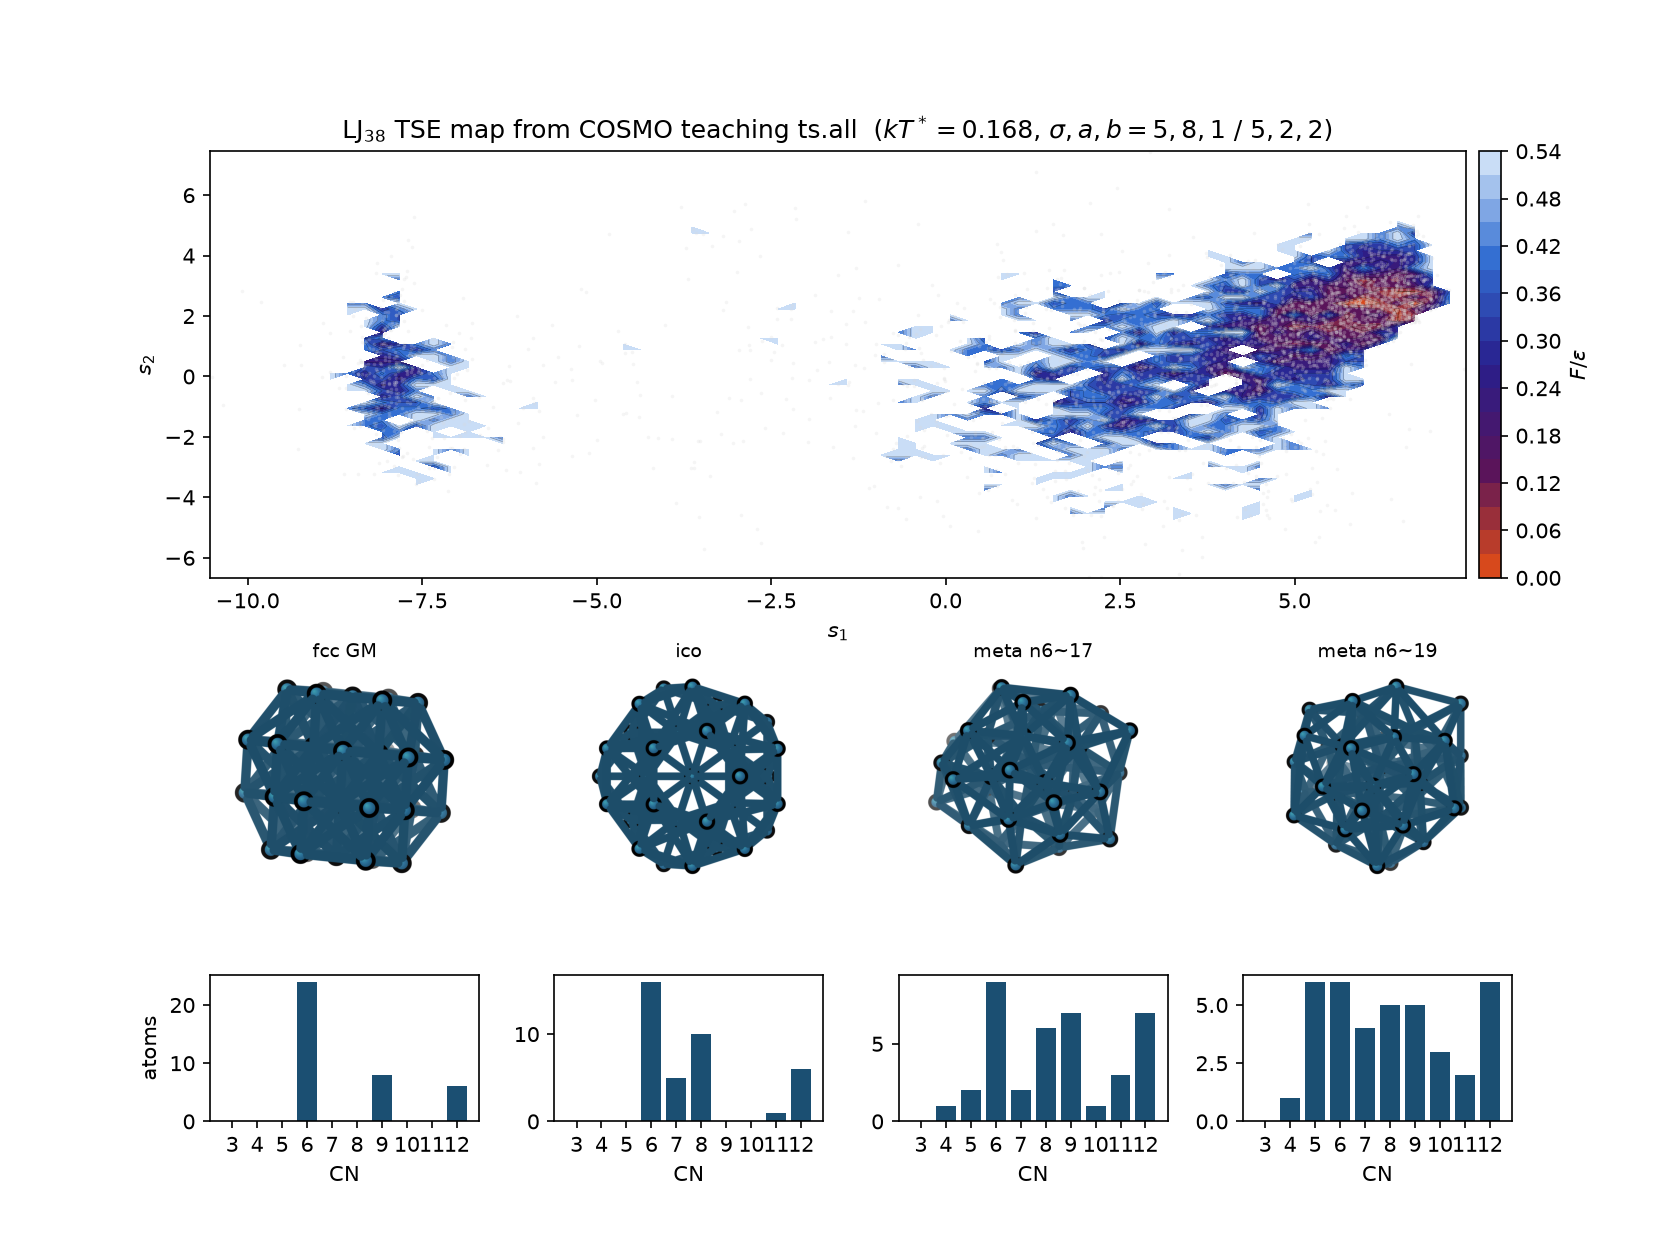
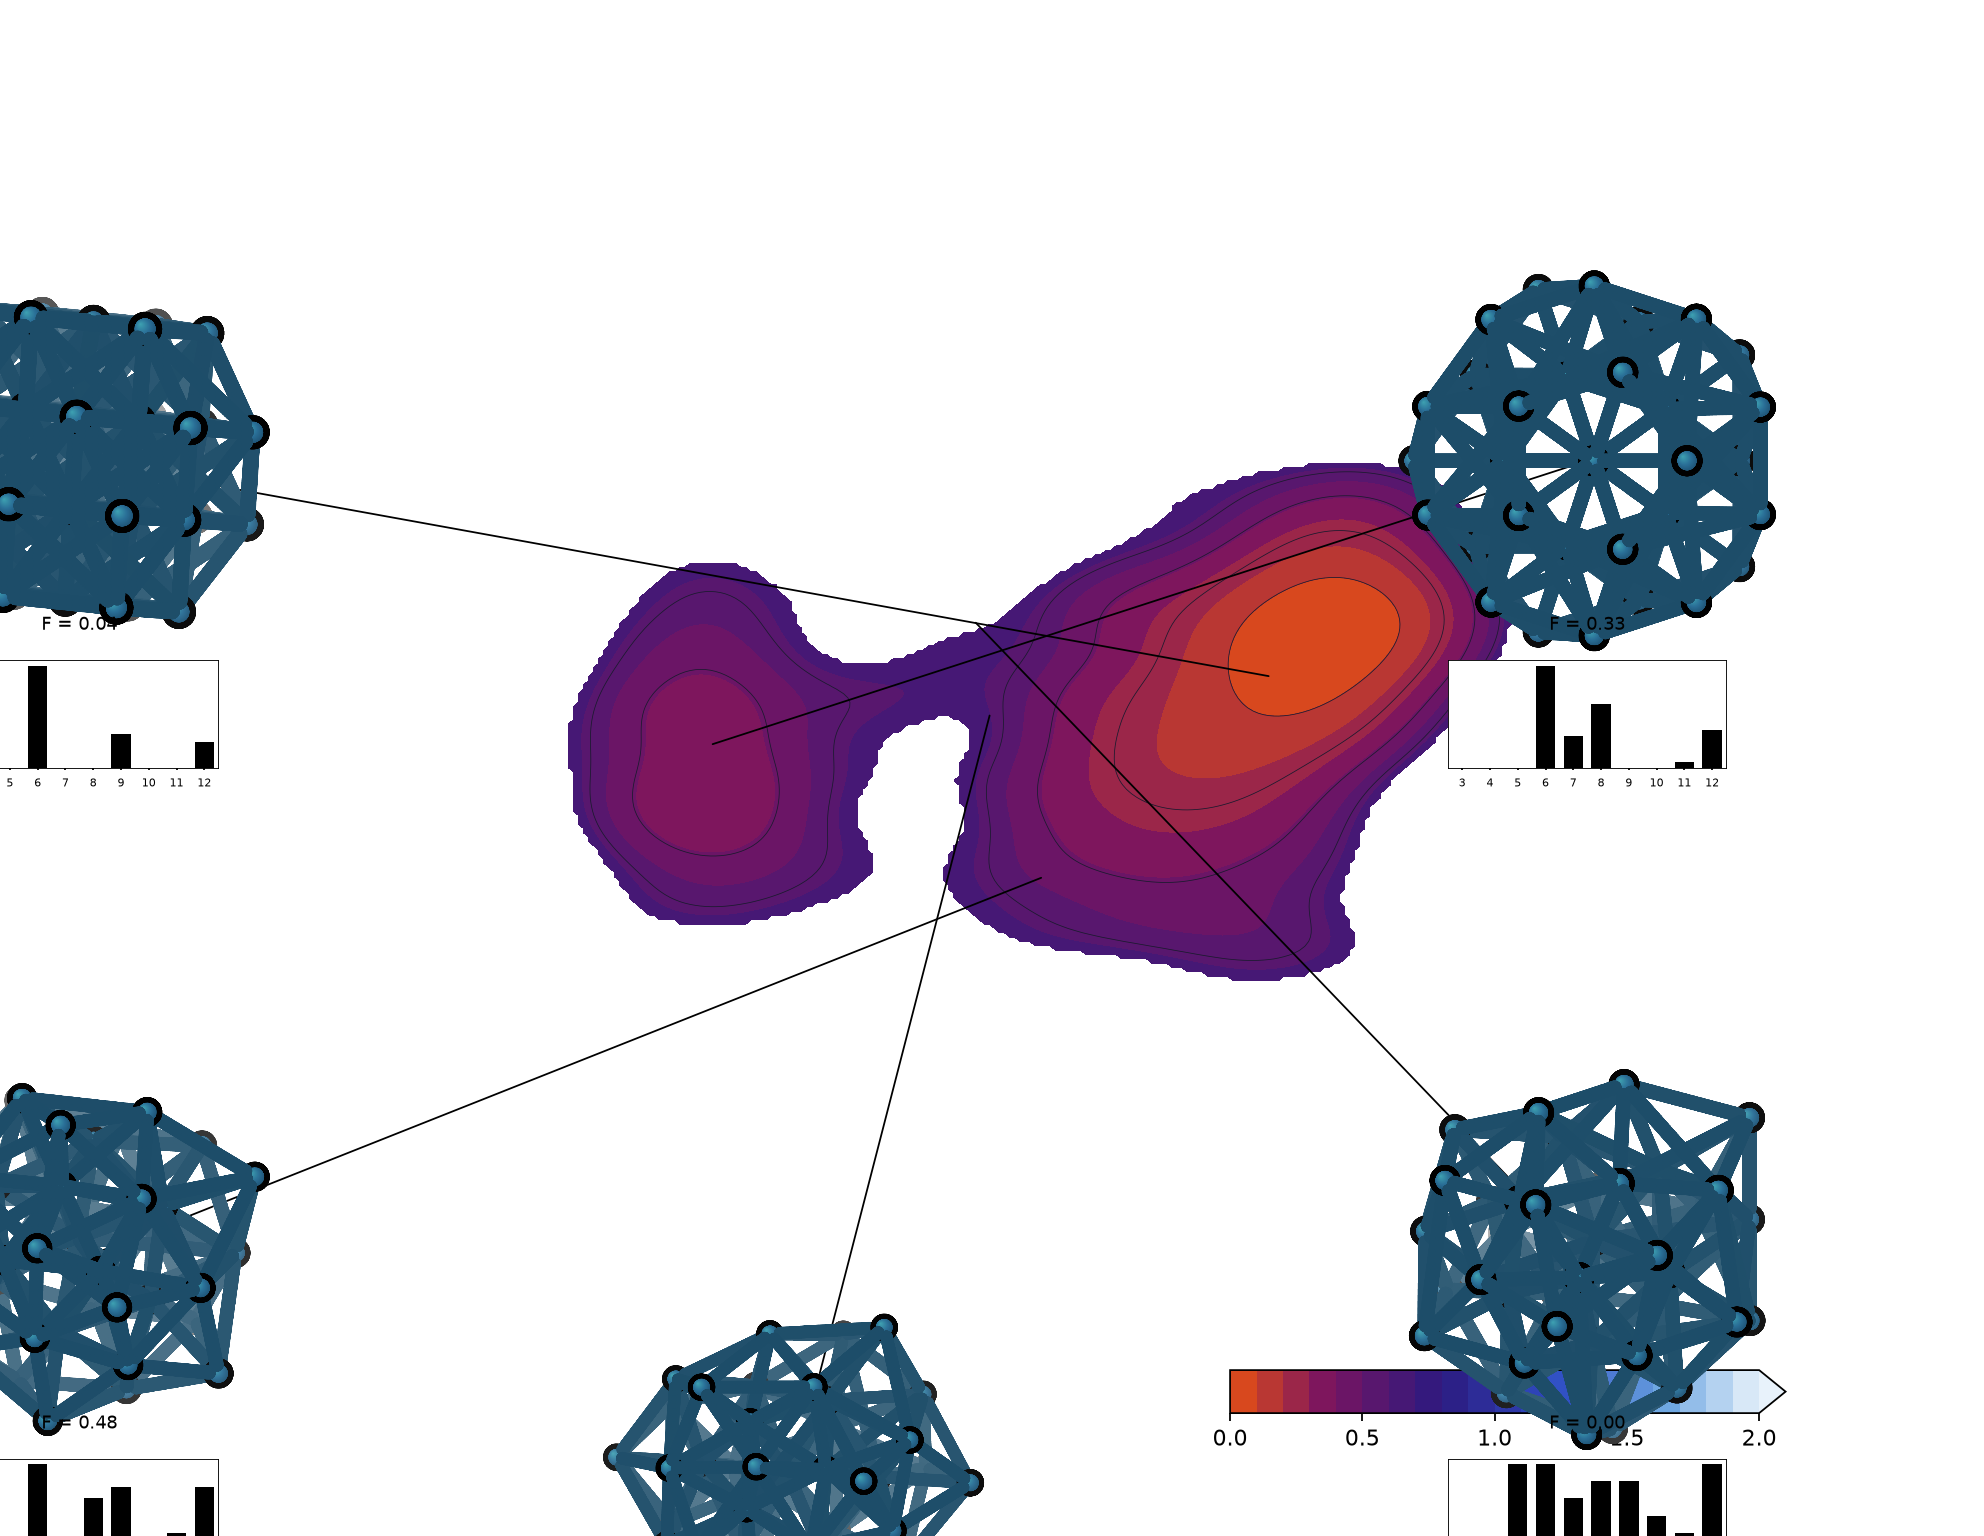
fix: FES-in-the-middle LJ38 figure and rustdoc cleanup
KDE-filled contours, leader lines to xyzrender frames, CN 3-12
bars, F labels, colorbar 0-2. Strip leftover npars/Boost wording
from transfer rustdocs.

diff --git a/examples/cosmo-lj38/compose_fes.py b/examples/cosmo-lj38/compose_fes.py
@@ -1,55 +1,81 @@
 #!/usr/bin/env python3
-"""LJ38 teaching figure: FES from landfold plus xyzrender frames and CN bars."""
+"""
+Compose a FES-in-the-middle figure: filled contours, leader lines to
+xyzrender frames, integer CN 3-12 bars, F labels. Layout matches the
+Ceriotti cluster-FES panel class, not a 1+4 matplotlib gallery.
+"""
 
 from __future__ import annotations
 
-import csv
 from pathlib import Path
 
 import matplotlib.pyplot as plt
 import numpy as np
 from matplotlib.colors import LinearSegmentedColormap
-from matplotlib.gridspec import GridSpec
+from matplotlib.offsetbox import AnnotationBbox, OffsetImage
 from PIL import Image
 
 ROOT = Path(__file__).resolve().parent
 OUT = ROOT / "out"
+KT = 0.168
 
 CMAP = LinearSegmentedColormap.from_list(
     "fes",
-    ["#e65014", "#5a145a", "#281e8c", "#326ed2", "#dcebfa"],
+    [
+        (0.00, "#e65014"),
+        (0.18, "#7a1460"),
+        (0.40, "#2c1a80"),
+        (0.62, "#2f4ec4"),
+        (0.82, "#6aa4e0"),
+        (1.00, "#e8f2fb"),
+    ],
 )
 
 
-def load_fes(path: Path):
-    xs, ys, fs = [], [], []
-    with path.open() as fh:
-        for raw in fh:
-            raw = raw.strip()
-            if not raw or raw.startswith("#"):
-                continue
-            row = raw.split()
-            if len(row) < 3 or row[2] == "nan":
-                continue
-            xs.append(float(row[0]))
-            ys.append(float(row[1]))
-            fs.append(float(row[2]))
-    x = np.asarray(xs)
-    y = np.asarray(ys)
-    f = np.asarray(fs)
-    ux = np.unique(np.round(x, 8))
-    uy = np.unique(np.round(y, 8))
-    grid = np.full((len(uy), len(ux)), np.nan)
-    ix = {v: i for i, v in enumerate(ux)}
-    iy = {v: i for i, v in enumerate(uy)}
-    for xi, yi, fi in zip(x, y, f):
-        grid[iy[round(yi, 8)], ix[round(xi, 8)]] = fi
-    return ux, uy, grid
-
-
-def load_xy(path: Path):
+def load_xy(path: Path) -> np.ndarray:
     pts = np.loadtxt(path)
     return np.atleast_2d(pts)[:, :2]
+
+
+def kde_fes(xy: np.ndarray, ngrid: int = 220, pad: float = 0.18):
+    """Gaussian KDE on the embedded points -> F = -kT ln(rho/rhomax)."""
+    x = xy[:, 0]
+    y = xy[:, 1]
+    xmin, xmax = x.min(), x.max()
+    ymin, ymax = y.min(), y.max()
+    dx = xmax - xmin
+    dy = ymax - ymin
+    xmin -= pad * dx
+    xmax += pad * dx
+    ymin -= pad * dy
+    ymax += pad * dy
+    # Scott bandwidth, then inflate so the map is a filled body.
+    n = xy.shape[0]
+    hx = 1.15 * x.std(ddof=1) * n ** (-1.0 / 6.0)
+    hy = 1.15 * y.std(ddof=1) * n ** (-1.0 / 6.0)
+    hx = max(hx, 0.25)
+    hy = max(hy, 0.25)
+    gx = np.linspace(xmin, xmax, ngrid)
+    gy = np.linspace(ymin, ymax, ngrid)
+    XX, YY = np.meshgrid(gx, gy)
+    rho = np.zeros_like(XX)
+    inv = 1.0 / (2.0 * np.pi * hx * hy * n)
+    # subsample so the grid fill stays cheap
+    if n > 600:
+        pick = np.random.default_rng(0).choice(n, 600, replace=False)
+        sample = xy[pick]
+    else:
+        sample = xy
+    inv = 1.0 / (2.0 * np.pi * hx * hy * len(sample))
+    for px, py in sample:
+        rho += np.exp(-0.5 * ((XX - px) / hx) ** 2 - 0.5 * ((YY - py) / hy) ** 2)
+    rho *= inv
+    rmax = rho.max()
+    fes = np.full_like(rho, np.nan)
+    mask = rho > 0.02 * rmax
+    fes[mask] = -KT * np.log(rho[mask] / rmax)
+    fes = np.clip(fes, 0.0, 2.0)
+    return gx, gy, fes
 
 
 def cn_hist(xyz: Path, cutoff: float = 1.5):
@@ -69,54 +95,106 @@ def cn_hist(xyz: Path, cutoff: float = 1.5):
     return bins[:-1], counts
 
 
-def main():
-    fes = OUT / "fes.csv"
-    if not fes.exists():
-        raise SystemExit("run ./run.sh first")
-    ux, uy, grid = load_fes(fes)
+def basin_f(xy: np.ndarray, gx, gy, fes, pt):
+    # nearest projected point, then F at that KDE cell
+    d = np.hypot(xy[:, 0] - pt[0], xy[:, 1] - pt[1])
+    j = int(np.argmin(d))
+    ix = int(np.argmin(np.abs(gx - xy[j, 0])))
+    iy = int(np.argmin(np.abs(gy - xy[j, 1])))
+    v = fes[iy, ix]
+    return 0.0 if np.isnan(v) else float(v)
 
-    fig = plt.figure(figsize=(11.2, 8.4))
-    gs = GridSpec(3, 4, height_ratios=[3.2, 1.6, 1.1], hspace=0.35, wspace=0.28)
-    ax = fig.add_subplot(gs[0, :])
-    mesh = ax.contourf(ux, uy, grid, levels=18, cmap=CMAP)
-    ax.contour(ux, uy, grid, levels=10, colors="k", linewidths=0.25, alpha=0.4)
-    if (OUT / "ts.proj").exists():
-        xy = load_xy(OUT / "ts.proj")
-        ax.scatter(xy[:, 0], xy[:, 1], s=3, c="0.85", alpha=0.25, linewidths=0)
-    cb = fig.colorbar(mesh, ax=ax, fraction=0.025, pad=0.01)
-    cb.set_label(r"$F/\epsilon$")
-    ax.set_xlabel(r"$s_1$")
-    ax.set_ylabel(r"$s_2$")
-    ax.set_title(
-        r"LJ$_{38}$ TSE map from COSMO teaching ts.all  "
-        r"($kT^*=0.168$, $\sigma,a,b=5,8,1$ / $5,2,2$)"
+
+def main():
+    proj = OUT / "ts.proj"
+    if not proj.exists():
+        raise SystemExit("run ./run.sh first")
+    xy = load_xy(proj)
+    gx, gy, fes = kde_fes(xy)
+
+    # k-means-ish 4 basins by greedy farthest then assign
+    rng = np.random.default_rng(1)
+    centers = [xy[rng.integers(0, len(xy))]]
+    for _ in range(3):
+        dmin = np.min([np.hypot(xy[:, 0] - c[0], xy[:, 1] - c[1]) for c in centers], axis=0)
+        centers.append(xy[int(np.argmax(dmin))])
+    centers = np.asarray(centers)
+    assign = np.argmin(
+        [np.hypot(xy[:, 0] - c[0], xy[:, 1] - c[1]) for c in centers], axis=0
     )
+    basin_xy = []
+    for k in range(4):
+        pts = xy[assign == k]
+        basin_xy.append(pts.mean(axis=0) if len(pts) else centers[k])
+
+    fig = plt.figure(figsize=(12.4, 9.6), facecolor="white")
+    ax = fig.add_axes([0.22, 0.22, 0.56, 0.62])
+    ax.set_facecolor("white")
+    mesh = ax.contourf(gx, gy, fes, levels=np.linspace(0, 2, 21), cmap=CMAP, extend="max")
+    ax.contour(
+        gx, gy, fes, levels=np.linspace(0.1, 1.8, 12), colors="#1a1a2e", linewidths=0.35
+    )
+    ax.set_xlabel("")
+    ax.set_ylabel("")
+    ax.set_xticks([])
+    ax.set_yticks([])
+    for s in ax.spines.values():
+        s.set_visible(False)
+
+    cax = fig.add_axes([0.62, 0.08, 0.28, 0.028])
+    cb = fig.colorbar(mesh, cax=cax, orientation="horizontal")
+    cb.set_label(r"$F/\epsilon$", fontsize=12)
+    cb.set_ticks([0, 0.5, 1.0, 1.5, 2.0])
 
     panels = [
-        ("lj38_fcc.png", "lj38_fcc.xyz", "fcc GM"),
-        ("lj38_ico.png", "lj38_ico.xyz", "ico"),
-        ("lj38.17.png", "lj38.17.xyz", "meta n6~17"),
-        ("lj38.19.png", "lj38.19.xyz", "meta n6~19"),
+        ("lj38_fcc.png", "lj38_fcc.xyz", basin_xy[0], (0.04, 0.70)),
+        ("lj38_ico.png", "lj38_ico.xyz", basin_xy[1], (0.80, 0.70)),
+        ("lj38.17.png", "lj38.17.xyz", basin_xy[2], (0.04, 0.18)),
+        ("lj38.19.png", "lj38.19.xyz", basin_xy[3], (0.80, 0.18)),
+        ("lj38.png", "lj38.xyz", basin_xy[0] * 0.5 + basin_xy[1] * 0.5, (0.40, 0.04)),
     ]
-    for i, (png_name, xyz_name, lab) in enumerate(panels):
-        axm = fig.add_subplot(gs[1, i])
-        axh = fig.add_subplot(gs[2, i])
+    for png_name, xyz_name, tip, (fx, fy) in panels:
         png = OUT / png_name
-        if png.exists():
-            axm.imshow(Image.open(png))
-        axm.set_axis_off()
-        axm.set_title(lab, fontsize=9)
         xyz = ROOT / xyz_name
+        if not png.exists():
+            continue
+        img = Image.open(png)
+        im = OffsetImage(img, zoom=0.13)
+        ab = AnnotationBbox(
+            im,
+            (fx, fy),
+            xycoords=fig.transFigure,
+            frameon=False,
+            box_alignment=(0.5, 0.5),
+        )
+        fig.add_artist(ab)
+        # leader from inset toward basin
+        ax.annotate(
+            "",
+            xy=tip,
+            xycoords=ax.transData,
+            xytext=(fx, fy),
+            textcoords=fig.transFigure,
+            arrowprops=dict(arrowstyle="-", color="k", lw=0.8),
+        )
+        fval = basin_f(xy, gx, gy, fes, tip)
+        fig.text(fx, fy - 0.11, f"F = {fval:.2f}", ha="center", fontsize=8)
         if xyz.exists():
             k, c = cn_hist(xyz)
-            axh.bar(k, c, color="#1b4f72")
-            axh.set_xticks(k)
-        axh.set_xlabel("CN")
-        if i == 0:
-            axh.set_ylabel("atoms")
+            # tiny histogram just under the F label
+            hx = fx - 0.07
+            hy = fy - 0.20
+            hax = fig.add_axes([hx, hy, 0.14, 0.07])
+            hax.bar(k, c, color="k", width=0.7)
+            hax.set_xlim(2.5, 12.5)
+            hax.set_xticks(k)
+            hax.tick_params(labelsize=5, length=1)
+            hax.set_yticks([])
+            for s in hax.spines.values():
+                s.set_linewidth(0.4)
 
-    fig.savefig(OUT / "lj38_fes.png", dpi=150)
-    fig.savefig(OUT / "lj38_fes.svg")
+    fig.savefig(OUT / "lj38_fes.png", dpi=160, facecolor="white")
+    fig.savefig(OUT / "lj38_fes.svg", facecolor="white")
     print("wrote", OUT / "lj38_fes.png")
 
 

diff --git a/src/transfer.rs b/src/transfer.rs
@@ -24,7 +24,7 @@ pub enum TransferMode {
 #[derive(Clone, Debug)]
 pub struct Transfer {
     mode: TransferMode,
-    /// Internal packed parameters after `set_mode` conversion.
+    /// Packed coefficients for the closed-form `f` / `df`.
     pars: Vec<f64>,
 }
 
@@ -42,7 +42,7 @@ impl Transfer {
         }
     }
 
-    /// `1 - 1/(1 + (x/sigma)^2)`. `npars = [sigma]`.
+    /// `1 - 1/(1 + (x/sigma)^2)`.
     pub fn sigmoid(sigma: f64) -> Result<Self> {
         if !(sigma > 0.0) {
             return Err(LandfoldError::TransferParams("sigmoid sigma must be > 0"));
@@ -54,7 +54,7 @@ impl Transfer {
         })
     }
 
-    /// `1 - 1/(1 + x/sigma)`. `npars = [sigma]`.
+    /// `1 - 1/(1 + x/sigma)`.
     pub fn compress(sigma: f64) -> Result<Self> {
         if !(sigma > 0.0) {
             return Err(LandfoldError::TransferParams("compress sigma must be > 0"));
@@ -65,7 +65,7 @@ impl Transfer {
         })
     }
 
-    /// Generalised sketch-map sigmoid. `npars = [sigma, a, b]`.
+    /// Generalised sigmoid of Ceriotti 2011. Arguments `(sigma, a, b)`.
     pub fn xsigmoid(sigma: f64, a: f64, b: f64) -> Result<Self> {
         if !(sigma > 0.0) {
             return Err(LandfoldError::TransferParams("xsigmoid sigma must be > 0"));
@@ -85,11 +85,9 @@ impl Transfer {
         })
     }
 
-    /// Regularised incomplete-gamma sigmoid. `npars = [sigma, n]`.
+    /// Regularised incomplete-gamma sigmoid. Arguments `(sigma, n)`.
     ///
-    /// Matches the Boost `gamma_q(n/2, (x/(sigma sqrt(2)))^2)` form when
-    /// compiled with `USE_BOOST`. Uses the continued-fraction / series
-    /// regularised-Q implementation in this crate.
+    /// `Q(n/2, (x/(sigma sqrt(2)))^2)` via a series / continued-fraction Q.
     pub fn gamma(sigma: f64, n: f64) -> Result<Self> {
         if !(sigma > 0.0) || !(n > 0.0) {
             return Err(LandfoldError::TransferParams(
@@ -106,7 +104,7 @@ impl Transfer {
         })
     }
 
-    /// `F_LD^{-1}(F_HD(x))` warp. `npars = [sigma, a_D, b_D, a_d, b_d]`.
+    /// `F_LD^{-1}(F_HD(x))` warp. Arguments `(sigma, a_D, b_D, a_d, b_d)`.
     pub fn warp(sigma: f64, a_d: f64, b_d: f64, a_ld: f64, b_ld: f64) -> Result<Self> {
         if !(sigma > 0.0) {
             return Err(LandfoldError::TransferParams("warp sigma must be > 0"));

diff --git a/src/project.rs b/src/project.rs
@@ -62,7 +62,7 @@ pub fn project_one(
     opts: &ProjOpts,
 ) -> Result<Array1<f64>> {
     if emb.low.ncols() != 2 && opts.grid_coarse > 1 {
-        // Grid global min is 2-D in the C++ projector; still allow CG-only.
+        // Coarse+fine grid search is implemented for 2-D embeddings.
     }
     let n = emb.high.nrows();
     let d_hi = emb.high.ncols();
